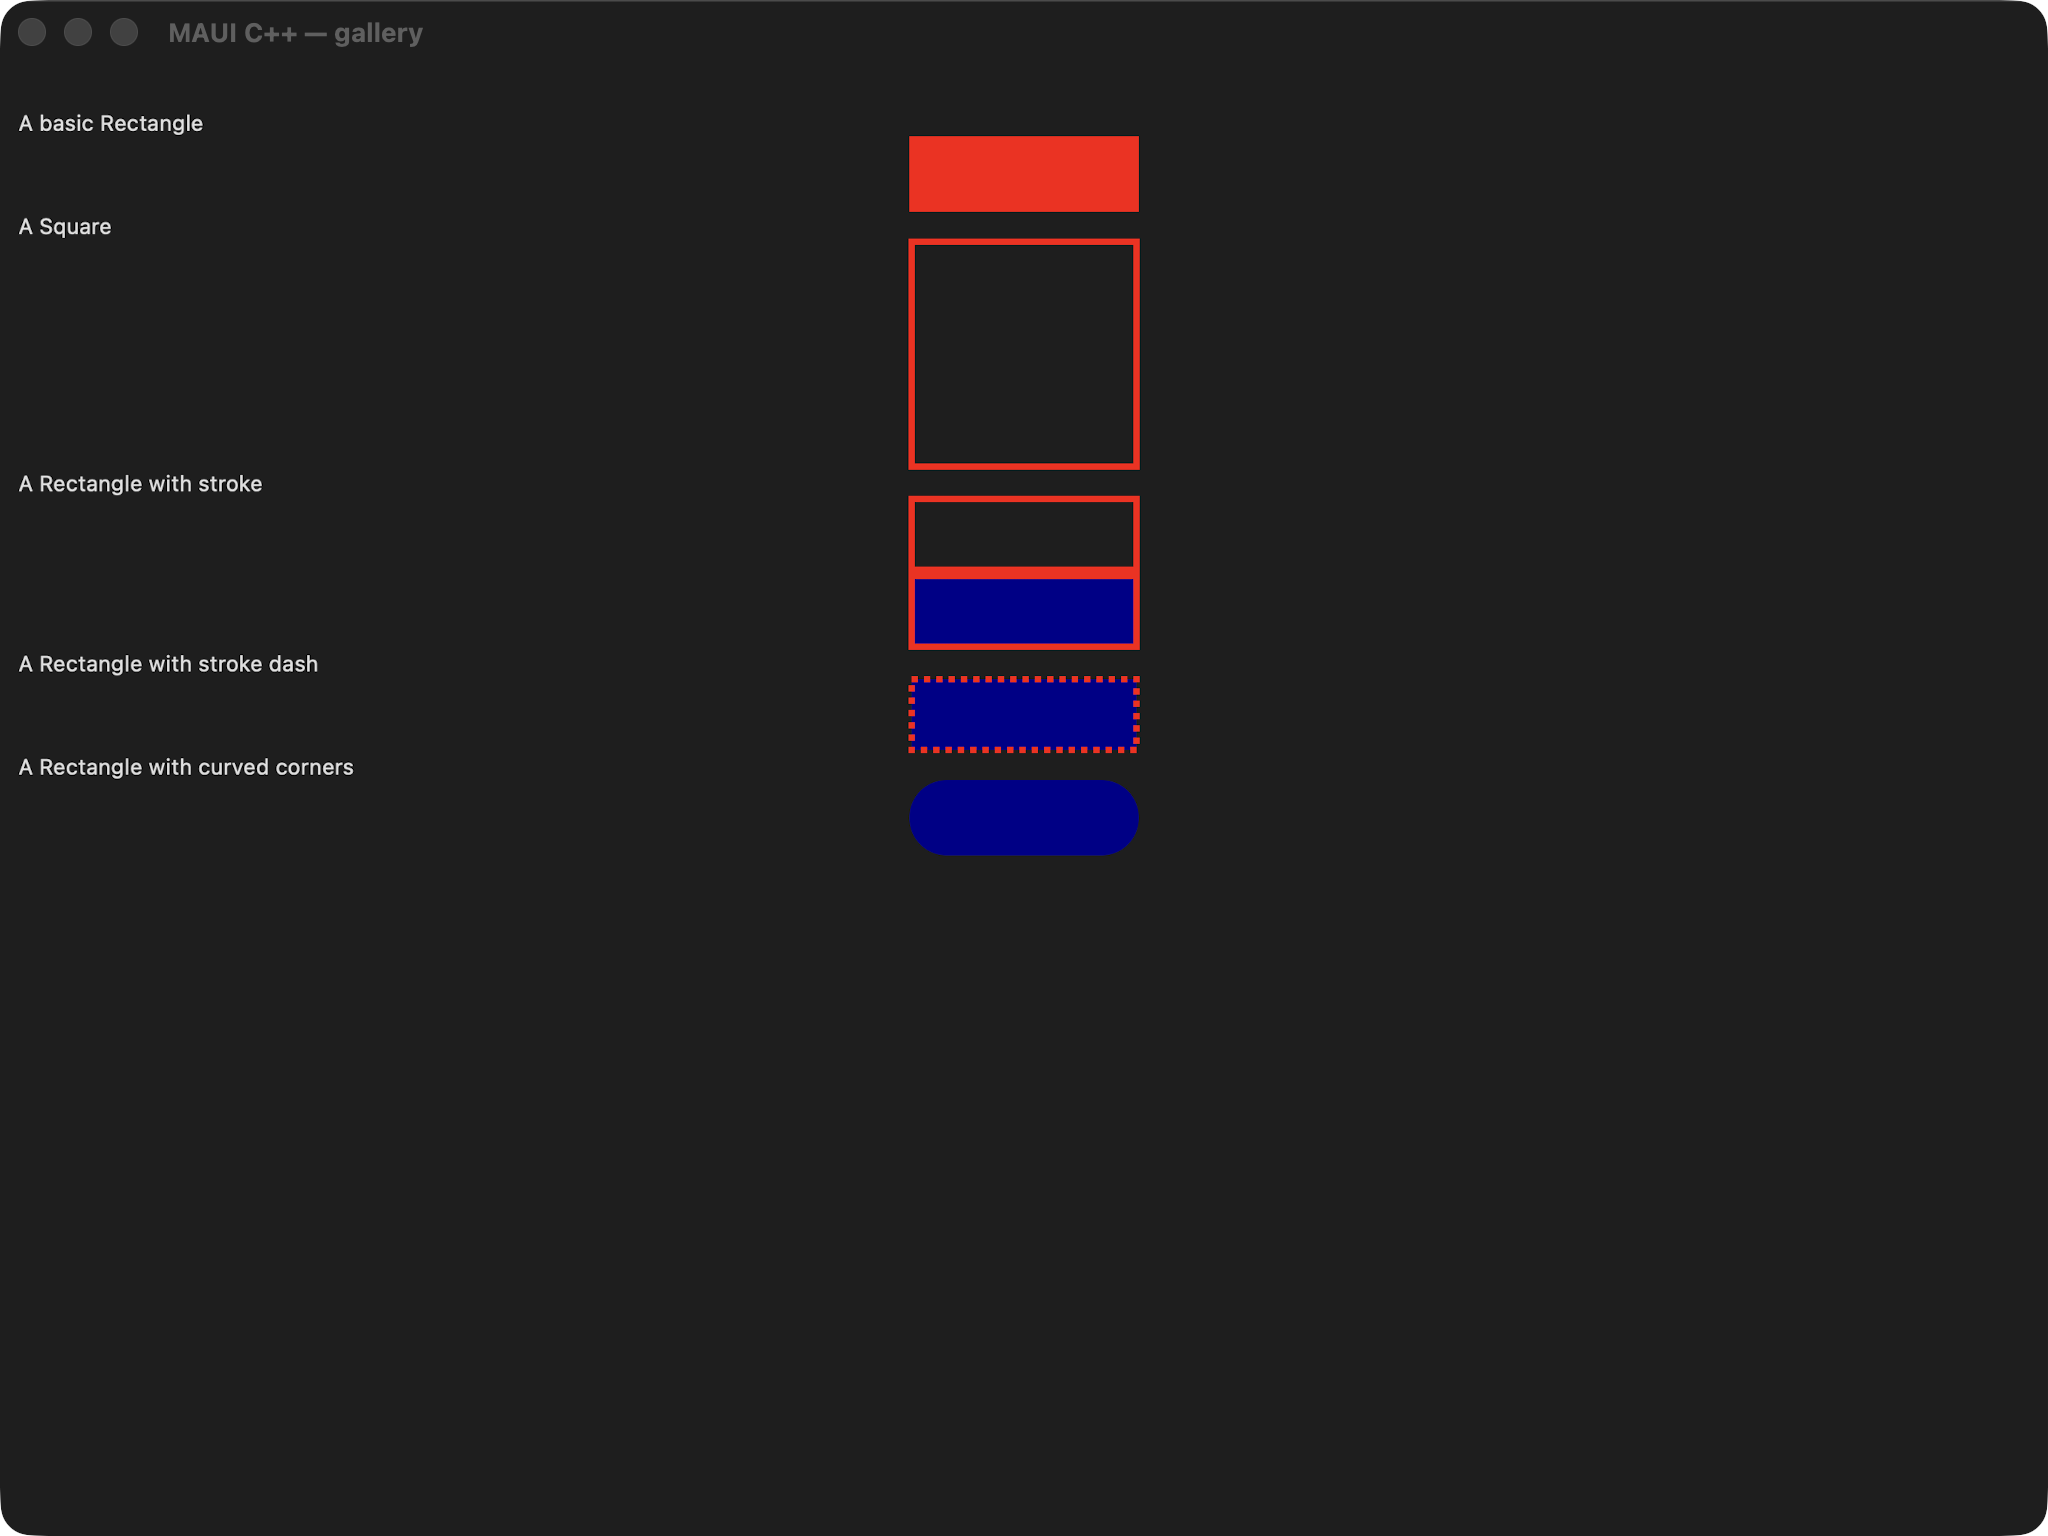
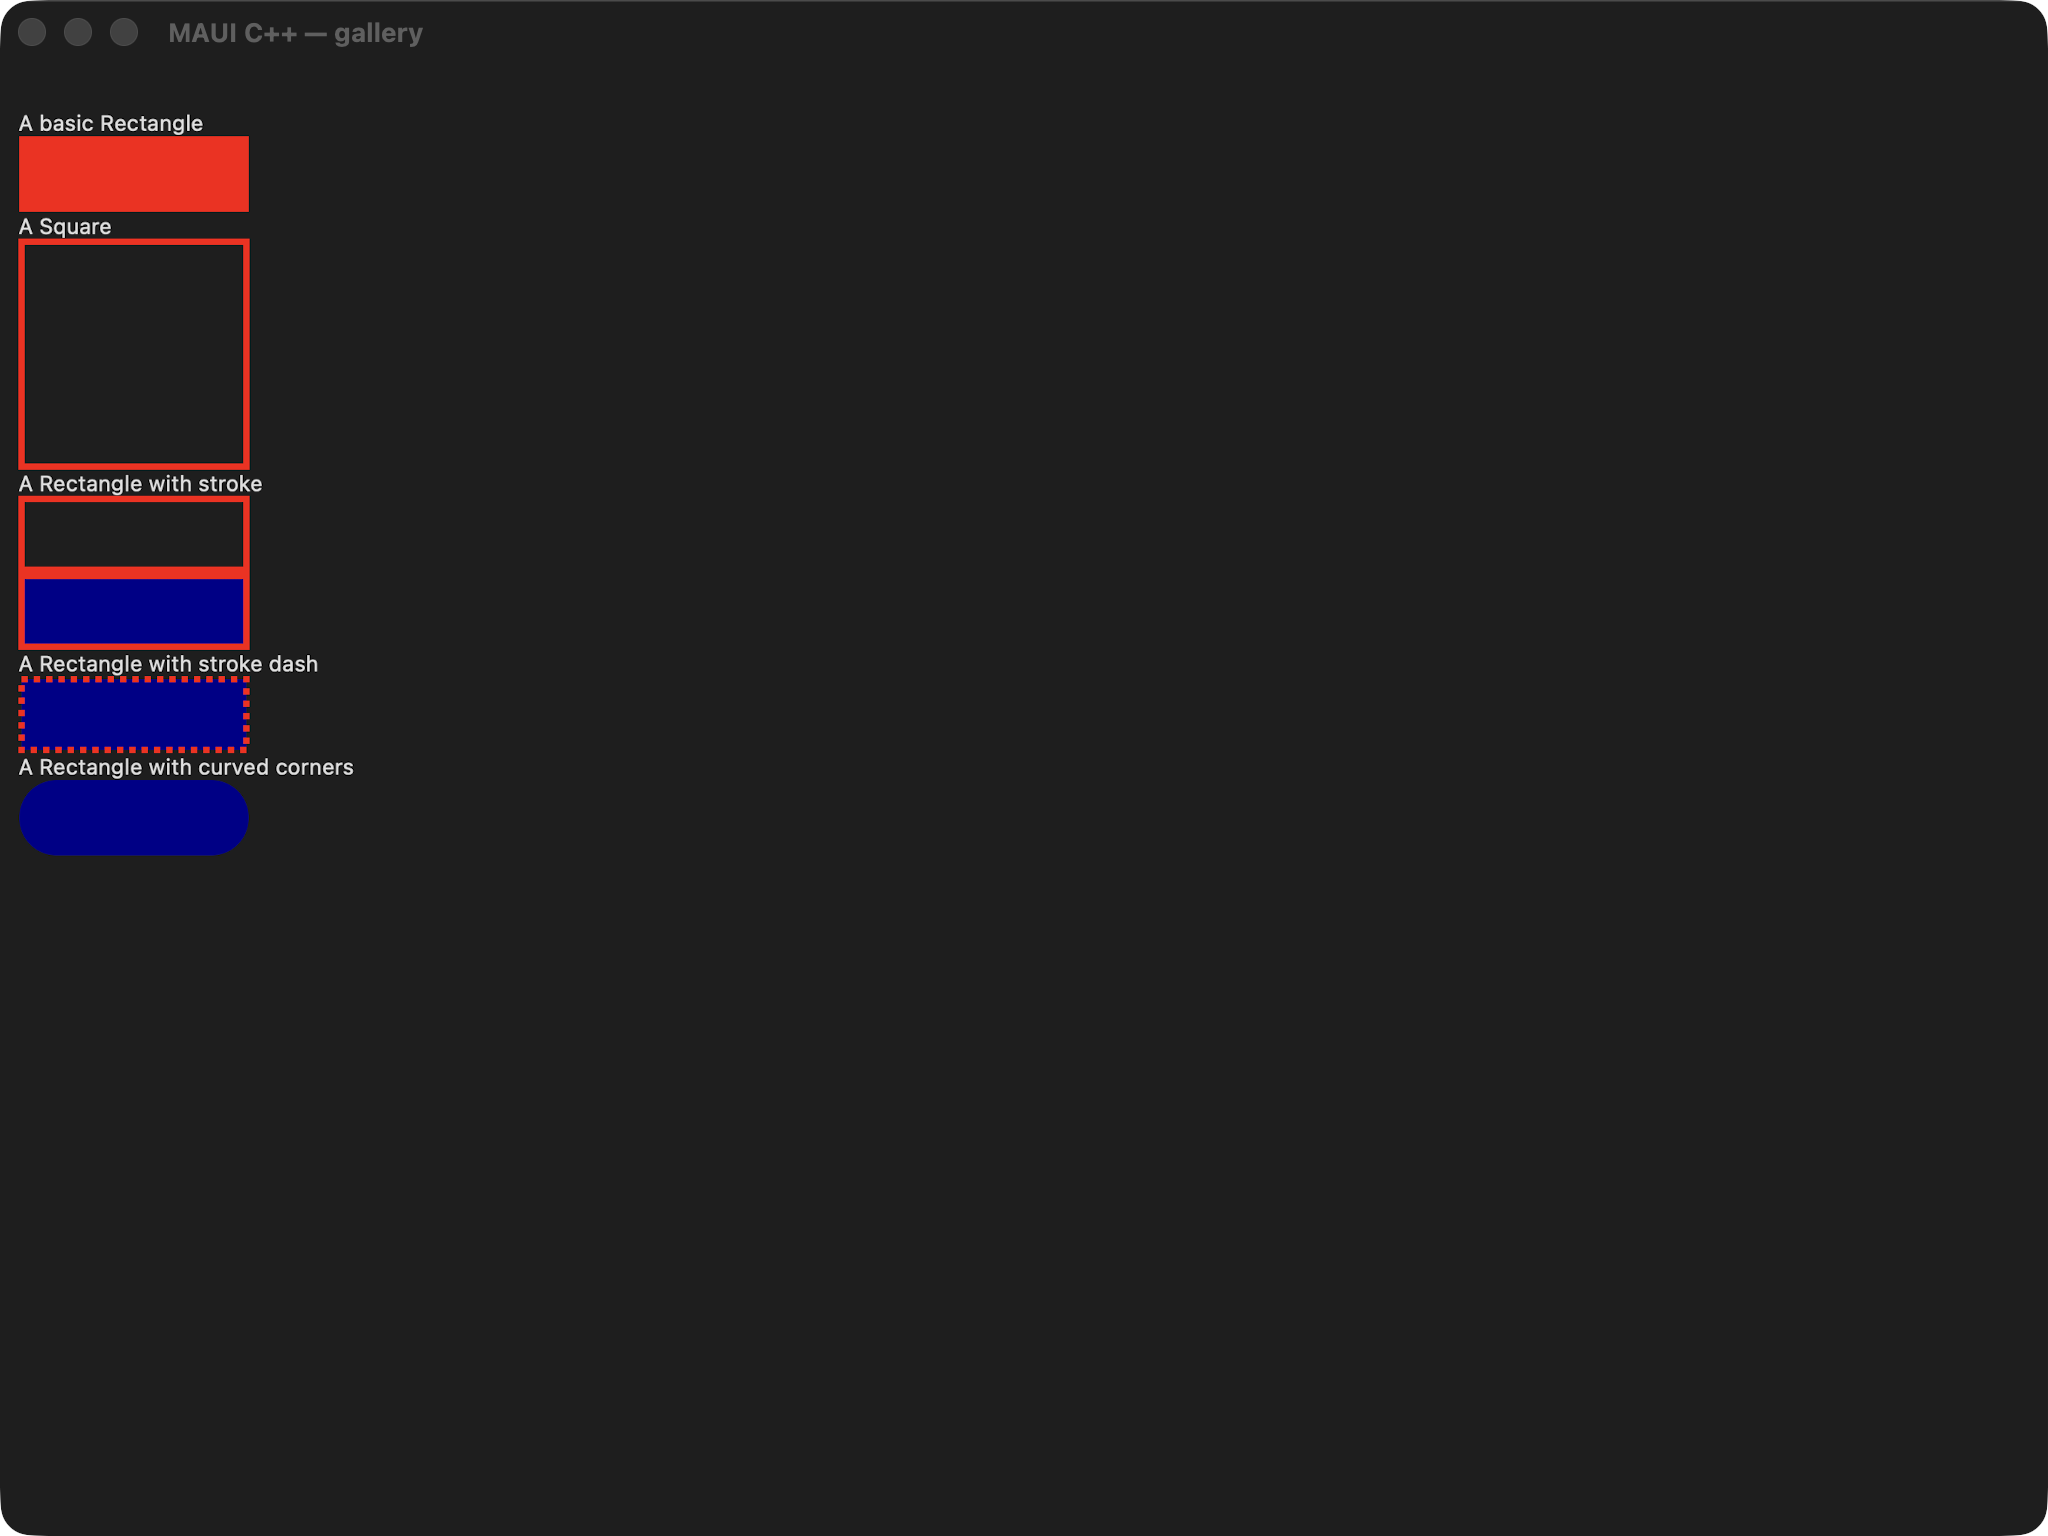
fix(rectangle_gallery): pin HorizontalOptions=Start on all rectangles (maccatalyst)
The shared rectangle_gallery.xaml <Style TargetType="Rectangle"> sets
HorizontalOptions="Start" on every rectangle (inlined per element now that
shape XAML properties are loader-registered), so each 150-wide shape hugs the
container's LEFT edge under its caption. The cpp builder tracked the OLD
maui-compare page that omitted HorizontalOptions and centered them via the
Fill+explicit-width rule. Set Start explicitly to match MAUI + the xaml column.
rectangle_gallery cpp+xaml yellow->green (5.5%%->2.5%%; residual is harness
inset + stroke AA). Consistency: 0 contradictions. maccatalyst cpp 140->141.

Changed region(s): [[0.4375, 0.0625, 0.5625, 0.5625], [0.0, 0.0625, 0.125, 0.5625]]

diff --git a/port/cpp/examples/gallery/pages/rectangle_gallery_page.hpp b/port/cpp/examples/gallery/pages/rectangle_gallery_page.hpp
@@ -40,6 +40,7 @@
 #include "maui/controls/scroll_view.hpp"
 #include "maui/controls/shapes/rectangle.hpp"
 #include "maui/controls/vertical_stack_layout.hpp"
+#include "maui/core/layout_alignment.hpp"
 #include "maui/core/thickness.hpp"
 #include "maui/graphics/colors.hpp"
 #include "maui/graphics/solid_paint.hpp"
@@ -59,6 +60,7 @@ namespace maui::samples
             basic_.set_fill(solid(maui::graphics::colors::red));
             basic_.set_width_request(150);
             basic_.set_height_request(50);
+            basic_.set_horizontal_layout_alignment(maui::core::layout_alignment::start); // HorizontalOptions="Start"
             stack_.add(basic_);
 
             // --- "A Square": red stroke 4, no fill, 150x150.
@@ -67,6 +69,7 @@ namespace maui::samples
             square_.set_stroke_thickness(4);
             square_.set_width_request(150);
             square_.set_height_request(150);
+            square_.set_horizontal_layout_alignment(maui::core::layout_alignment::start); // HorizontalOptions="Start"
             stack_.add(square_);
 
             // --- "A Rectangle with stroke": red stroke 4, no fill, 150x50.
@@ -75,6 +78,8 @@ namespace maui::samples
             stroke_rect_.set_stroke_thickness(4);
             stroke_rect_.set_width_request(150);
             stroke_rect_.set_height_request(50);
+            stroke_rect_.set_horizontal_layout_alignment(
+                maui::core::layout_alignment::start); // HorizontalOptions="Start"
             stack_.add(stroke_rect_);
 
             // --- the same with a dark-blue fill (shares the caption above), 150x50.
@@ -83,6 +88,8 @@ namespace maui::samples
             filled_stroke_rect_.set_stroke_thickness(4);
             filled_stroke_rect_.set_width_request(150);
             filled_stroke_rect_.set_height_request(50);
+            filled_stroke_rect_.set_horizontal_layout_alignment(
+                maui::core::layout_alignment::start); // HorizontalOptions="Start"
             stack_.add(filled_stroke_rect_);
 
             // --- "A Rectangle with stroke dash": dark-blue fill, red dashed stroke (1,1 / offset 6), 150x50.
@@ -94,6 +101,8 @@ namespace maui::samples
             dash_rect_.set_stroke_dash_offset(6);
             dash_rect_.set_width_request(150);
             dash_rect_.set_height_request(50);
+            dash_rect_.set_horizontal_layout_alignment(
+                maui::core::layout_alignment::start); // HorizontalOptions="Start"
             stack_.add(dash_rect_);
 
             // --- "A Rectangle with curved corners": RadiusX 12 / RadiusY 24 (port rounds with max — note),
@@ -104,11 +113,15 @@ namespace maui::samples
             curved_rect_.set_fill(solid(maui::graphics::colors::dark_blue));
             curved_rect_.set_width_request(150);
             curved_rect_.set_height_request(50);
+            curved_rect_.set_horizontal_layout_alignment(
+                maui::core::layout_alignment::start); // HorizontalOptions="Start"
             stack_.add(curved_rect_);
 
-            // C# RectangleGalleryPage (maui-compare, the rendered ground truth) does NOT set
-            // HorizontalOptions on the rectangles, so they keep the default Fill+explicit-width behaviour
-            // which view::align_horizontal centers — matching the MAUI capture. (No Start override here.)
+            // The shared rectangle_gallery.xaml <Style TargetType="Rectangle"> sets HorizontalOptions="Start"
+            // on every rectangle (inlined per-element), so each 150-wide shape hugs the container's LEFT edge
+            // under its caption — matching MAUI + the xaml loader column. (An earlier twin, tracking the old
+            // maui-compare page that omitted HorizontalOptions, centered them via the Fill+explicit-width
+            // rule; the ground truth now pins Start, so this sets it explicitly.)
 
             scroll_.set_content(stack_);
             page_.set_content(scroll_);

diff --git a/port/cpp/docs/comparison/README.md b/port/cpp/docs/comparison/README.md
@@ -3687,8 +3687,8 @@ _Not yet computed — no automated pixel-diff score is recorded for this page ye
 
 | Classification | Sonnet 5 | Gemini |
 | --- | --- | --- |
-| 🟢 Match | 140 | 0 |
-| 🟡 Minor | 34 | 0 |
+| 🟢 Match | 141 | 0 |
+| 🟡 Minor | 33 | 0 |
 | 🔴 Major | 2 | 0 |
 | ⬛ Blank | 7 | 0 |
 | ⏳ Unreviewed | 12 | 195 |
@@ -6465,16 +6465,16 @@ _Not yet reviewed._
 
 _Not yet computed — no automated pixel-diff score is recorded for this page yet._
 
-### 149. Rectangle Gallery — 🟡/⏳
+### 149. Rectangle Gallery — 🟢/⏳
 <sub>rectangle_gallery</sub>
 
 <table><tr><th></th><th>MAUI</th><th>C++</th><th>C++ &amp; XAML</th><th>AppKit / C++</th><th>AppKit / C++ &amp; XAML</th></tr><tr><th>Light</th><td><img width="300px" src="../../../maui-reference/captures/maccatalyst/rectangle_gallery_light.png" /></td><td><img width="300px" src="captures/maccatalyst/cpp/rectangle_gallery_light.png" /></td><td><img width="300px" src="captures/maccatalyst/xaml/rectangle_gallery_light.png" /></td><td><img width="300px" src="captures/maccatalyst/appkit_cpp/rectangle_gallery_light.png" /></td><td><img width="300px" src="captures/maccatalyst/appkit_xaml/rectangle_gallery_light.png" /></td></tr><tr><th>Dark</th><td><img width="300px" src="../../../maui-reference/captures/maccatalyst/rectangle_gallery_dark.png" /></td><td><img width="300px" src="captures/maccatalyst/cpp/rectangle_gallery_dark.png" /></td><td><img width="300px" src="captures/maccatalyst/xaml/rectangle_gallery_dark.png" /></td><td><img width="300px" src="captures/maccatalyst/appkit_cpp/rectangle_gallery_dark.png" /></td><td><img width="300px" src="captures/maccatalyst/appkit_xaml/rectangle_gallery_dark.png" /></td></tr></table>
 
 ports RectangleGallery.xaml A self-contained, code-first port of the MAUI Shapes RectangleGallery (Pages/Controls/ShapesGalleries/RectangleGallery.xaml + .xaml.cs)
 
-#### 🟡 Sonnet 5 Review
+#### 🟢 Sonnet 5 Review
 
-C1 (light): shape content, colors, strokes, and dash patterns for all five rectangle variants (basic, square, stroke, stroke-dash, curved-corners) match MAUI exactly — but MAUI renders the whole column left-aligned (Start) near x~20-240px, while cpp renders the identical column shifted right and centered around x~890-1110px in the window. This is a real horizontal-position/alignment regression (HorizontalOptions=Start not honored for this page's container), not a uniform outer-inset shift, since the shapes are ~750px further right rather than a consistent small margin. C3 (dark): same centering-vs-Start-alignment discrepancy persists identically. Collapsed verdict = yellow (content/shapes fully correct, but position wrong in both themes).
+C1/C3: all six rectangles (basic red-fill, red-stroke square, red-stroke bar, blue-fill+red-stroke, dashed, rounded) now hug the container LEFT edge under their captions — matching MAUI + the xaml column — after pinning HorizontalOptions=Start per the shared XAML (an earlier twin centered them via the old maui-compare ref). Residual ~2.5% is the harness inset + stroke anti-aliasing.
 
 #### ⏳ Gemini Review
 
